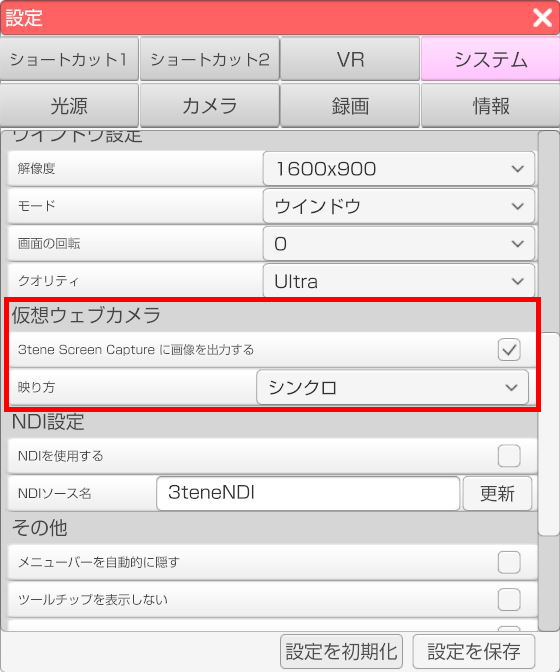
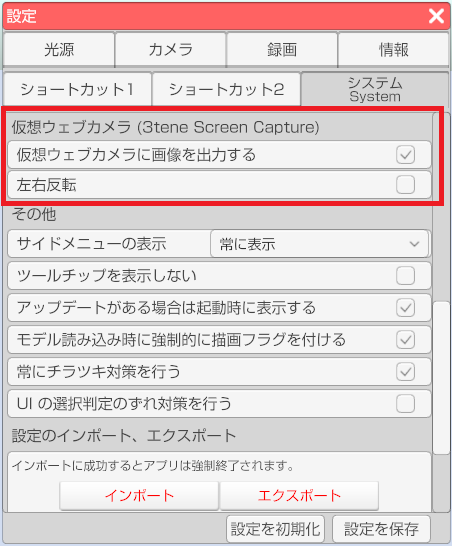
仮想ウェブカメラ関連を修正。

diff --git a/VirtualWebCamera.md b/VirtualWebCamera.md
@@ -52,13 +52,13 @@
 
 >登録成功が表示されエラーが出なければ登録完了です。
 
->3tene の画面が「3tene Screen Capture」に出力されるようになります。
+><font color="Blue">3tene を再起動する</font>と、画面が「3tene Screen Capture」に出力されるようになります。
 
 
 ### 仮想ウェブカメラの使用方法
->設定 - システム - 仮想ウェブカメラ の「3teneScreenCaptureに画像を出力する」に
+>設定 - システム - 仮想ウェブカメラ の「仮想ウェブカメラに画像を出力する」に
 >チェックを入れると仮想ウェブカメラを使用することが出来ます。
->映り方を変更すると出力する映像を変更することが出来ます。（シンクロ or 鏡）
+>左右も反転する事が可能です。
 
 ![画像](image/Vwc_HowToUse.png "")
 

diff --git a/troubleshooting.md b/troubleshooting.md
@@ -334,6 +334,12 @@
 >FREE と PRO を両方インストールした後に片方をアンインストールした場合も
 >動作しなくなりますので仮想カメラの[手動登録](#VirtualWebCamera.md)を行ってください。
 
+### OBS の映像キャプチャデ画面が「3tene has not started」(緑)になります。
+
+>設定「システム」で「3tene ScreenCapture に出力する」が
+>有効になっているのを確認してください。
+
+>有効になっている場合は仮想カメラの[手動登録](#VirtualWebCamera.md)を行ってください。
 
 ### Mac で OBS のウインドウキャプチャ表示ができません。
 

diff --git a/AboutOBS.md b/AboutOBS.md
@@ -62,6 +62,9 @@
 
 ![画像](image/obs_02.png "")
 
+><font color="Red">OBS のデバイス一覧に表示されなかったり、3tene を起動しても画面が更新されない</font>等、
+>映像キャプチャが正常に動作しない場合は[手動で再登録](#VirtualWebCamera.md)を試してみてください。
+
 
 ### OBS の設定 (ゲームキャプチャ)
 
